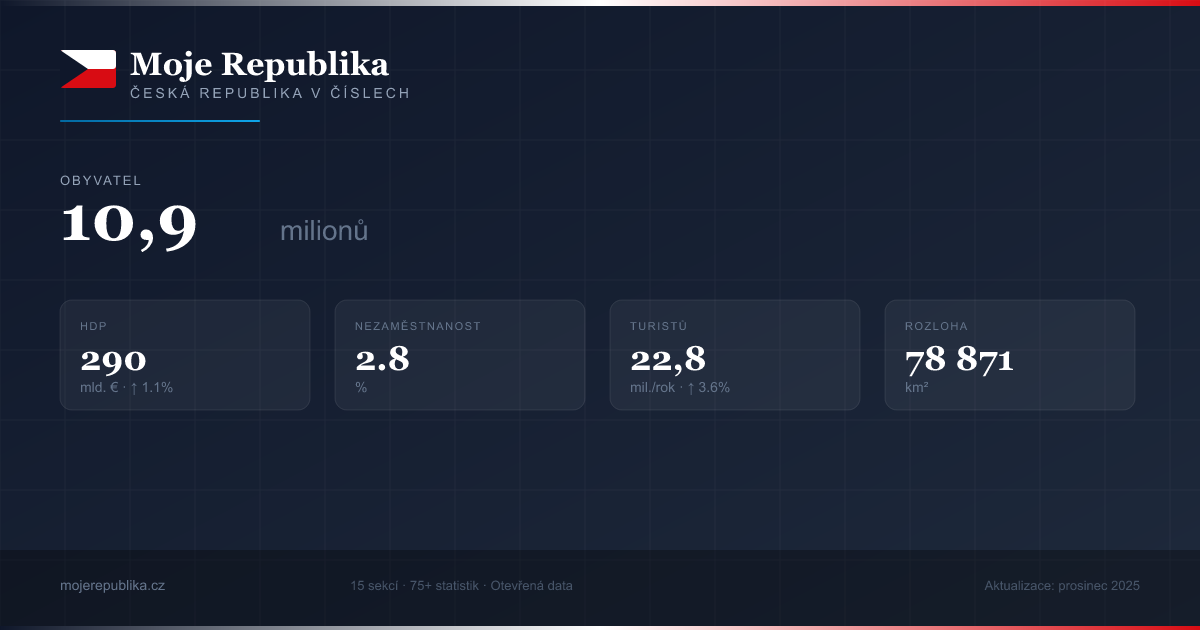
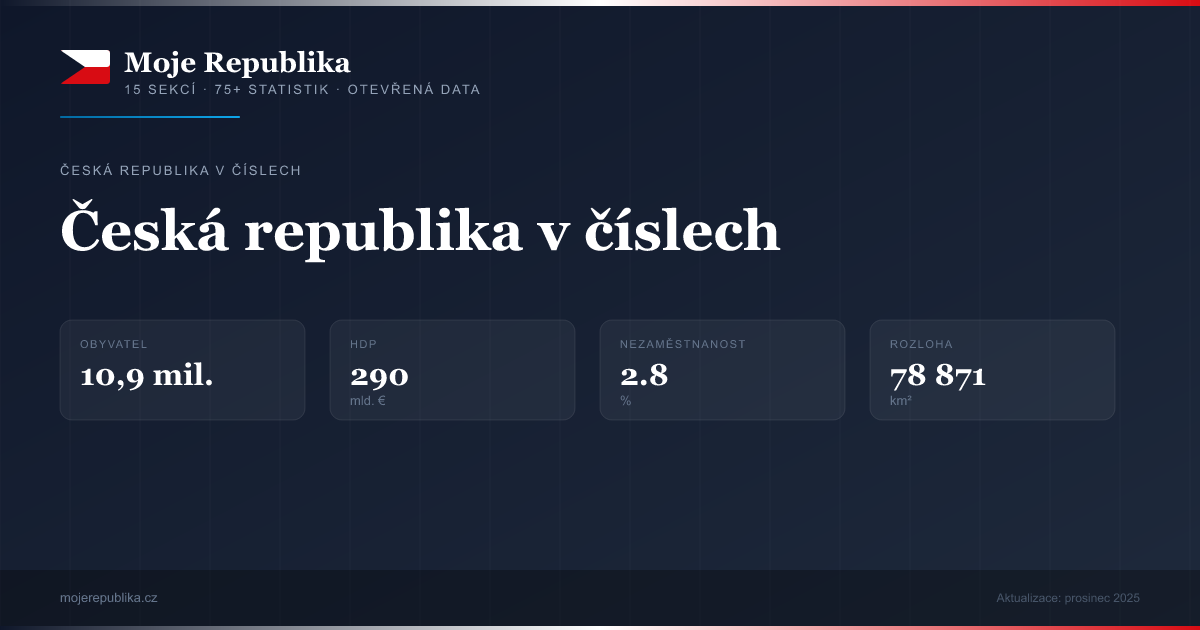
feat: scroll animations, search (Ctrl+K), per-section OG images
Scroll reveal:
- Cards fade-in with staggered delay on scroll
- Respects prefers-reduced-motion

Search (Ctrl+K):
- Search modal with instant filtering across all 75+ stats
- Shows stat label, value, section, description
- Click result navigates to section page
- Search button in header + keyboard shortcut

Per-section OG images:
- 15 unique OG images generated at build time
- Each shows section title + top 4 stats
- Dark theme with tricolor accents
- Linked via ogImage prop in Layout

diff --git a/scripts/generate-og.js b/scripts/generate-og.js
@@ -1,120 +1,137 @@
 #!/usr/bin/env node
 /**
- * Generates dynamic OG image from stats.json data
- * Run: node scripts/generate-og.js
- * Output: public/og-image.png (1200x630)
+ * Generates OG images from stats.json data
+ * - /public/og-image.png (homepage)
+ * - /public/og/[section].png (per section)
  */
 
 import { Resvg } from '@resvg/resvg-js';
-import { readFileSync, writeFileSync } from 'fs';
+import { readFileSync, writeFileSync, mkdirSync, existsSync } from 'fs';
 import { resolve, dirname } from 'path';
 import { fileURLToPath } from 'url';
 
 const __dirname = dirname(fileURLToPath(import.meta.url));
 const stats = JSON.parse(readFileSync(resolve(__dirname, '../src/data/stats.json'), 'utf-8'));
-
-// Extract key stats for OG image
-const population = stats.demografie.stats.find(s => s.id === 'population');
-const gdp = stats.ekonomika.stats.find(s => s.id === 'gdp');
-const unemployment = stats.ekonomika.stats.find(s => s.id === 'unemployment');
-const tourists = stats.turismus.stats.find(s => s.id === 'tourists');
-const area = stats.geografie.stats.find(s => s.id === 'area');
-const beer = stats.zajimavosti.stats.find(s => s.id === 'beer-consumption');
-
 const lastUpdated = new Date(stats.meta.lastUpdated).toLocaleDateString('cs-CZ', { month: 'long', year: 'numeric' });
 
 const WIDTH = 1200;
 const HEIGHT = 630;
 
-const svg = `
+const sectionMap = {
+  demografie: 'demografie', ekonomika: 'ekonomika', bydleni: 'bydleni',
+  vzdelani: 'vzdelani', zdravotnictvi: 'zdravotnictvi', bezpecnost: 'bezpecnost',
+  geografie: 'geografie', doprava: 'doprava', energie: 'energie',
+  zivotniProstredi: 'zivotni-prostredi', digitalizace: 'digitalizace',
+  kultura: 'kultura', turismus: 'turismus', zajimavosti: 'zajimavosti',
+  politika: 'politika',
+};
+
+function renderSvg(title, subtitle, statCards) {
+  const cards = statCards.slice(0, 4).map((stat, i) => {
+    const x = 60 + i * 270;
+    const y = 320;
+    const val = String(stat.value);
+    const unit = stat.unit || '';
+    return `
+      <g>
+        <rect x="${x}" y="${y}" width="245" height="100" rx="12" fill="rgba(255,255,255,0.05)" stroke="rgba(255,255,255,0.08)" stroke-width="1"/>
+        <text x="${x + 20}" y="${y + 28}" fill="#64748B" font-family="Arial, sans-serif" font-size="11" letter-spacing="1.5">${stat.label.toUpperCase().slice(0, 20)}</text>
+        <text x="${x + 20}" y="${y + 65}" fill="white" font-family="Georgia, serif" font-size="30" font-weight="700">${val}</text>
+        <text x="${x + 20}" y="${y + 85}" fill="#64748B" font-family="Arial, sans-serif" font-size="13">${unit}</text>
+      </g>
+    `;
+  }).join('');
+
+  return `
 <svg width="${WIDTH}" height="${HEIGHT}" viewBox="0 0 ${WIDTH} ${HEIGHT}" xmlns="http://www.w3.org/2000/svg">
   <defs>
     <linearGradient id="bg" x1="0" y1="0" x2="1" y2="1">
       <stop offset="0%" stop-color="#0F172A"/>
       <stop offset="100%" stop-color="#1E293B"/>
     </linearGradient>
-    <linearGradient id="accent" x1="0" y1="0" x2="1" y2="0">
-      <stop offset="0%" stop-color="#0369A1"/>
-      <stop offset="100%" stop-color="#0EA5E9"/>
-    </linearGradient>
     <linearGradient id="tricolor" x1="0" y1="0" x2="1" y2="0">
       <stop offset="0%" stop-color="#0F172A"/>
       <stop offset="50%" stop-color="#FFFFFF"/>
       <stop offset="100%" stop-color="#d80c13"/>
     </linearGradient>
+    <linearGradient id="accent" x1="0" y1="0" x2="1" y2="0">
+      <stop offset="0%" stop-color="#0369A1"/>
+      <stop offset="100%" stop-color="#0EA5E9"/>
+    </linearGradient>
   </defs>
-
-  <!-- Background -->
   <rect width="${WIDTH}" height="${HEIGHT}" fill="url(#bg)"/>
-
-  <!-- Top tricolor bar -->
   <rect x="0" y="0" width="${WIDTH}" height="6" fill="url(#tricolor)"/>
-
-  <!-- Subtle grid pattern -->
-  <g opacity="0.04">
-    ${Array.from({length: 20}, (_, i) => `<line x1="${i * 65}" y1="0" x2="${i * 65}" y2="${HEIGHT}" stroke="white" stroke-width="1"/>`).join('')}
-    ${Array.from({length: 10}, (_, i) => `<line x1="0" y1="${i * 70}" x2="${WIDTH}" y2="${i * 70}" stroke="white" stroke-width="1"/>`).join('')}
+  <g opacity="0.03">
+    ${Array.from({length: 18}, (_, i) => `<line x1="${i * 70}" y1="0" x2="${i * 70}" y2="${HEIGHT}" stroke="white" stroke-width="1"/>`).join('')}
   </g>
 
-  <!-- Flag icon -->
+  <!-- Flag -->
   <g transform="translate(60, 50)">
-    <rect width="56" height="38" rx="3" fill="#d80c13"/>
-    <rect width="56" height="19" rx="3" fill="#ffffff"/>
-    <polygon points="0,0 28,19 0,38" fill="#0F172A"/>
+    <rect width="50" height="34" rx="3" fill="#d80c13"/>
+    <rect width="50" height="17" rx="3" fill="#ffffff"/>
+    <polygon points="0,0 25,17 0,34" fill="#0F172A"/>
   </g>
 
-  <!-- Title -->
-  <text x="130" y="75" fill="white" font-family="Georgia, serif" font-size="32" font-weight="700">Moje Republika</text>
-  <text x="130" y="98" fill="#94A3B8" font-family="Arial, sans-serif" font-size="14" letter-spacing="3">ČESKÁ REPUBLIKA V ČÍSLECH</text>
+  <text x="124" y="72" fill="white" font-family="Georgia, serif" font-size="28" font-weight="700">Moje Republika</text>
+  <text x="124" y="94" fill="#94A3B8" font-family="Arial, sans-serif" font-size="13" letter-spacing="2">${subtitle}</text>
 
-  <!-- Divider -->
-  <rect x="60" y="120" width="200" height="2" fill="url(#accent)" rx="1"/>
+  <rect x="60" y="116" width="180" height="2" fill="url(#accent)" rx="1"/>
 
-  <!-- Main stat: Population -->
-  <text x="60" y="185" fill="#94A3B8" font-family="Arial, sans-serif" font-size="13" letter-spacing="2" text-transform="uppercase">OBYVATEL</text>
-  <text x="60" y="240" fill="white" font-family="Georgia, serif" font-size="64" font-weight="700">${population?.value || '10,9'}</text>
-  <text x="280" y="240" fill="#64748B" font-family="Arial, sans-serif" font-size="28">milionů</text>
+  <text x="60" y="175" fill="#94A3B8" font-family="Arial, sans-serif" font-size="13" letter-spacing="2">${title.toUpperCase()}</text>
+  <text x="60" y="250" fill="white" font-family="Georgia, serif" font-size="56" font-weight="700">${title}</text>
 
-  <!-- Stat cards row -->
-  ${[
-    { label: 'HDP', value: `${gdp?.value || 290}`, unit: 'mld. €', change: gdp?.change },
-    { label: 'NEZAMĚSTNANOST', value: `${unemployment?.value || 2.8}`, unit: '%', change: null },
-    { label: 'TURISTŮ', value: `${tourists?.value || '22,8'}`, unit: 'mil./rok', change: tourists?.change },
-    { label: 'ROZLOHA', value: `${area?.value || '78 871'}`, unit: 'km²', change: null },
-  ].map((stat, i) => {
-    const x = 60 + i * 275;
-    const y = 300;
-    return `
-      <g>
-        <rect x="${x}" y="${y}" width="250" height="110" rx="12" fill="rgba(255,255,255,0.05)" stroke="rgba(255,255,255,0.08)" stroke-width="1"/>
-        <text x="${x + 20}" y="${y + 30}" fill="#64748B" font-family="Arial, sans-serif" font-size="11" letter-spacing="1.5">${stat.label}</text>
-        <text x="${x + 20}" y="${y + 70}" fill="white" font-family="Georgia, serif" font-size="34" font-weight="700">${stat.value}</text>
-        <text x="${x + 20}" y="${y + 92}" fill="#64748B" font-family="Arial, sans-serif" font-size="14">${stat.unit}${stat.change ? ` · ${stat.change > 0 ? '↑' : '↓'} ${Math.abs(stat.change)}%` : ''}</text>
-      </g>
-    `;
-  }).join('')}
+  ${cards}
 
-  <!-- Bottom bar -->
-  <rect x="0" y="${HEIGHT - 80}" width="${WIDTH}" height="80" fill="rgba(0,0,0,0.3)"/>
-  <text x="60" y="${HEIGHT - 40}" fill="#64748B" font-family="Arial, sans-serif" font-size="14">mojerepublika.cz</text>
-  <text x="350" y="${HEIGHT - 40}" fill="#475569" font-family="Arial, sans-serif" font-size="13">15 sekcí · 75+ statistik · Otevřená data</text>
-  <text x="${WIDTH - 60}" y="${HEIGHT - 40}" fill="#475569" font-family="Arial, sans-serif" font-size="13" text-anchor="end">Aktualizace: ${lastUpdated}</text>
+  <rect x="0" y="${HEIGHT - 60}" width="${WIDTH}" height="60" fill="rgba(0,0,0,0.3)"/>
+  <text x="60" y="${HEIGHT - 28}" fill="#64748B" font-family="Arial, sans-serif" font-size="13">mojerepublika.cz</text>
+  <text x="${WIDTH - 60}" y="${HEIGHT - 28}" fill="#475569" font-family="Arial, sans-serif" font-size="12" text-anchor="end">Aktualizace: ${lastUpdated}</text>
 
-  <!-- Bottom tricolor -->
   <rect x="0" y="${HEIGHT - 4}" width="${WIDTH}" height="4" fill="url(#tricolor)"/>
-</svg>
-`;
+</svg>`;
+}
 
-// Render to PNG
-const resvg = new Resvg(svg, {
-  fitTo: { mode: 'width', value: WIDTH },
-  font: {
-    loadSystemFonts: true,
-  },
-});
+function renderPng(svg, outputPath) {
+  const resvg = new Resvg(svg, {
+    fitTo: { mode: 'width', value: WIDTH },
+    font: { loadSystemFonts: true },
+  });
+  const png = resvg.render().asPng();
+  writeFileSync(outputPath, png);
+  return png.length;
+}
 
-const png = resvg.render().asPng();
-const outputPath = resolve(__dirname, '../public/og-image.png');
-writeFileSync(outputPath, png);
+// --- Generate homepage OG ---
+const population = stats.demografie.stats.find(s => s.id === 'population');
+const gdp = stats.ekonomika.stats.find(s => s.id === 'gdp');
+const unemployment = stats.ekonomika.stats.find(s => s.id === 'unemployment');
+const area = stats.geografie.stats.find(s => s.id === 'area');
 
-console.log(`✓ OG image generated: ${outputPath} (${(png.length / 1024).toFixed(0)} KB)`);
+const homeSvg = renderSvg('Česká republika v číslech', '15 SEKCÍ · 75+ STATISTIK · OTEVŘENÁ DATA', [
+  { label: 'Obyvatel', value: population?.value + ' mil.', unit: '' },
+  { label: 'HDP', value: gdp?.value, unit: 'mld. €' },
+  { label: 'Nezaměstnanost', value: unemployment?.value, unit: '%' },
+  { label: 'Rozloha', value: area?.value, unit: 'km²' },
+]);
+const homeSize = renderPng(homeSvg, resolve(__dirname, '../public/og-image.png'));
+console.log(`✓ og-image.png (${(homeSize / 1024).toFixed(0)} KB)`);
+
+// --- Generate per-section OG images ---
+const ogDir = resolve(__dirname, '../public/og');
+if (!existsSync(ogDir)) mkdirSync(ogDir, { recursive: true });
+
+for (const [dataKey, slug] of Object.entries(sectionMap)) {
+  const section = stats[dataKey];
+  if (!section) continue;
+
+  const topStats = section.stats.slice(0, 4).map(s => ({
+    label: s.label,
+    value: String(s.value),
+    unit: s.unit || '',
+  }));
+
+  const svg = renderSvg(section.title, 'MOJE REPUBLIKA · OTEVŘENÁ DATA', topStats);
+  const size = renderPng(svg, resolve(ogDir, `${slug}.png`));
+  console.log(`✓ og/${slug}.png (${(size / 1024).toFixed(0)} KB)`);
+}
+
+console.log(`\n✓ Celkem: 1 homepage + ${Object.keys(sectionMap).length} section OG images`);

diff --git a/src/styles/global.css b/src/styles/global.css
@@ -113,6 +113,17 @@
 .legend-labels { color: var(--c-muted); }
 .region-info { background: var(--c-surface); border: 1px solid var(--c-border); color: var(--c-text); }
 
+/* Scroll reveal animation */
+.reveal {
+  opacity: 0;
+  transform: translateY(16px);
+  transition: opacity 0.5s ease, transform 0.5s ease;
+}
+.reveal.visible {
+  opacity: 1;
+  transform: translateY(0);
+}
+
 /* Scroll progress bar */
 #scroll-progress {
   transform-origin: left;
